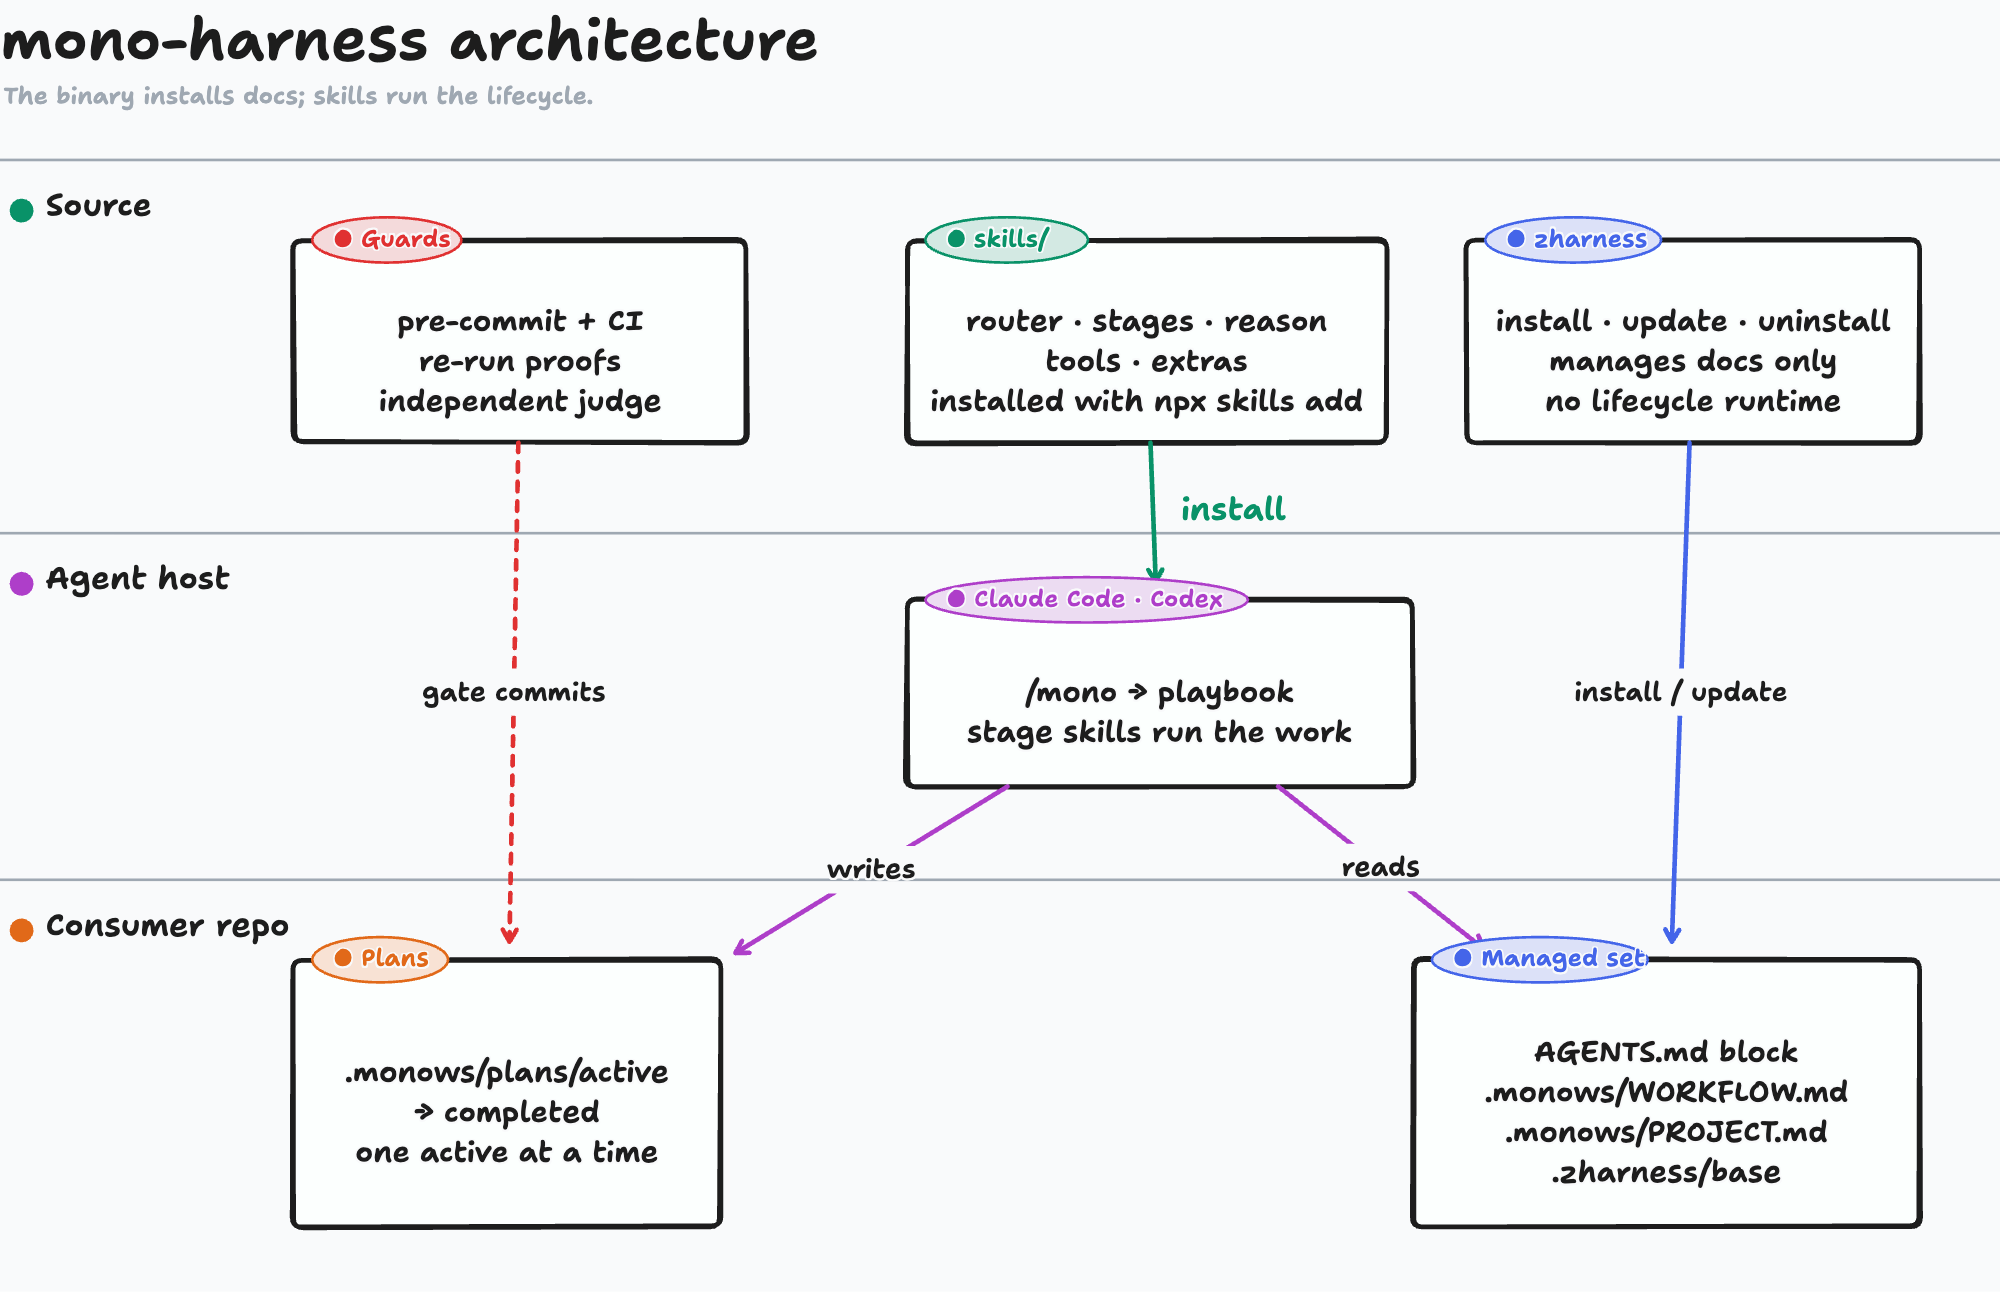
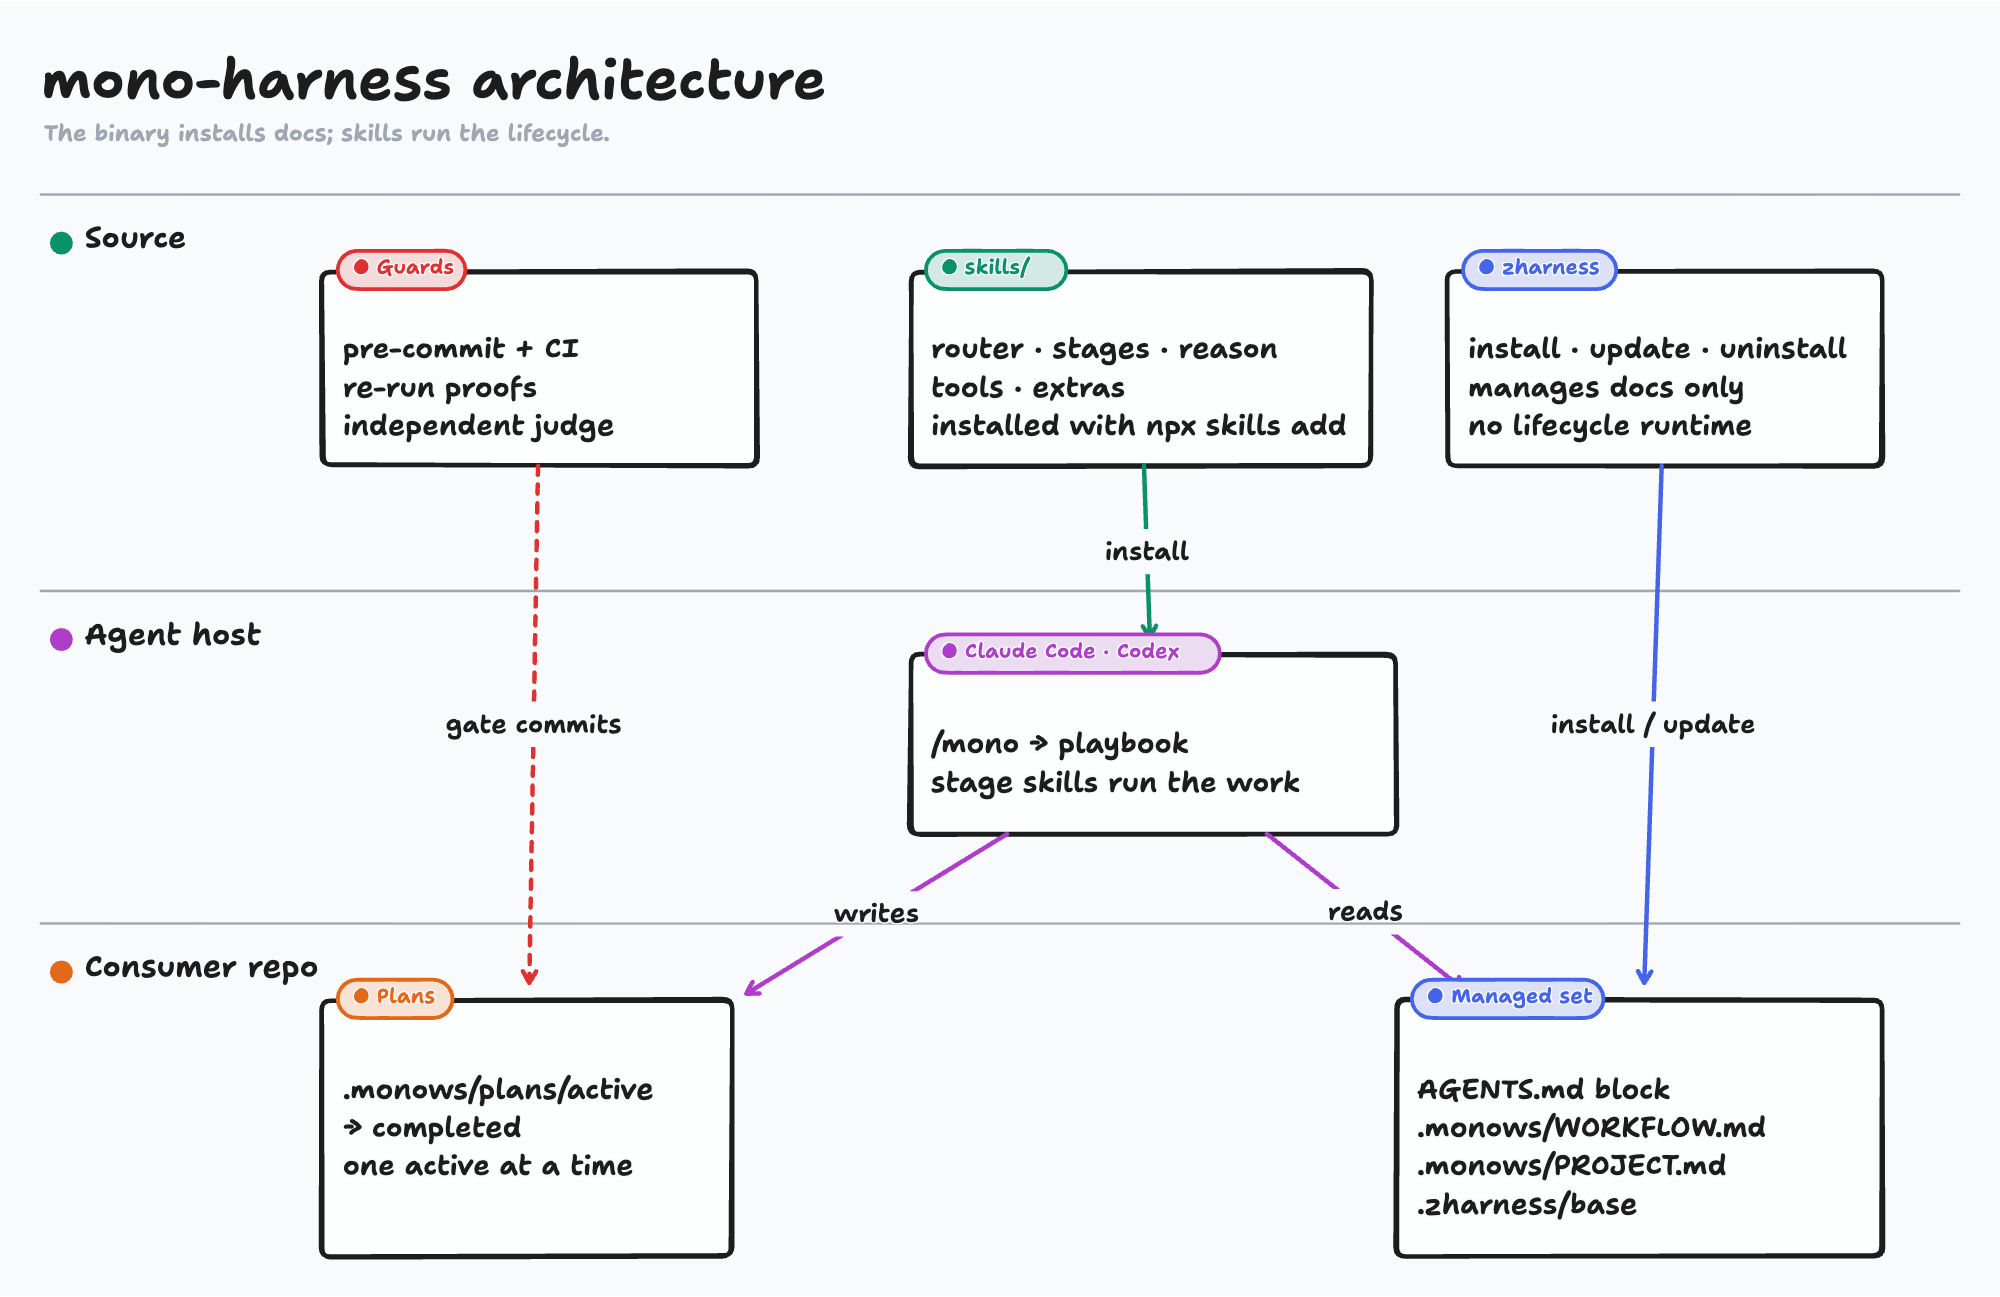
docs(readme): re-export the architecture PNG in the offline light-pill look
Redrawn on the same tldraw.com board with the monoclaudian style fixes:
left-aligned cards, stadium pills, inline arrow labels, 32px padding.

🥷 - from therealTINHTUTE with love

diff --git a/.monows/plans/active/tldraw-mcp.md b/.monows/plans/active/tldraw-mcp.md
@@ -46,6 +46,7 @@ lane: normal
 - 2026-11-27 R5 live run: tldraw MCP added at user scope and signed in; board created; first layout had a writes/install crossing, so columns were reordered (guards, skills, zh / host / plans, managed) and redrawn by per-id remove (35 removed incl. arr_skills_host-label); added a white margin path because the screenshot clipped bottom borders. Claude Code's REPL returns the screenshot as a saved file path ([Image: source: …]), not base64; SKILL.md export section updated to match.
 
 - 2026-11-27 main: committed monoclaudian 71f9e56 (branch feat/tldraw-diagram-mcp, PR https://github.com/tinhtute/monoclaudian/pull/12); R1–R4 acceptance repointed to paths relative to a monoclaudian checkout.
+- 2026-11-27 main: offline-style parity pass (owner: "fix all theo offline style"): cards left-aligned via add align:'start'; pills drawn as closed stadium paths (no oval geo in apply_ops) at x+12,y-16, w 10n+40, h 30, text at x+24,y-14 resized to scale 0.9; host and consumer rows moved 30 down so "install" stays on its shaft in black; margin_top + margin give 32px padding; plans padded with a trailing newline. Board redrawn (36 removed, 42 applied, 0 errors); PNG re-exported. Vertical text alignment and arrow bend still have no op.
 
 ## Validation
 - 2026-11-27 R1 pass: rg offline terms empty, scripts/ absent (rc=0)
@@ -55,6 +56,7 @@ lane: normal
 - 2026-11-27 monoclaudian `bash scripts/validate-skills.sh` → skills OK (6 skills)
 - 2026-11-27 R5 pass: README.md:119 cites https://www.tldraw.com/f/kSlGDIpz4cDe1Fy2IOkds; site/assets/architecture.png (2000px, from get_cluster_screenshot) present; mono-harness-architecture.tldraw trashed; verify-doc-links OK
 - 2026-11-27 R1–R4 re-run after the live fixes: pass; ops schema check 35 ops, 0 errors
+- 2026-11-27 parity pass: ops file 42 ops, schema check 0 errors; apply_ops 42 applied, 0 errors, no "beside it" label; monoclaudian validate-skills OK (6 skills); screenshot reviewed against the offline PNG
 
 ## Current State and Next Action
 - active_phase: main
